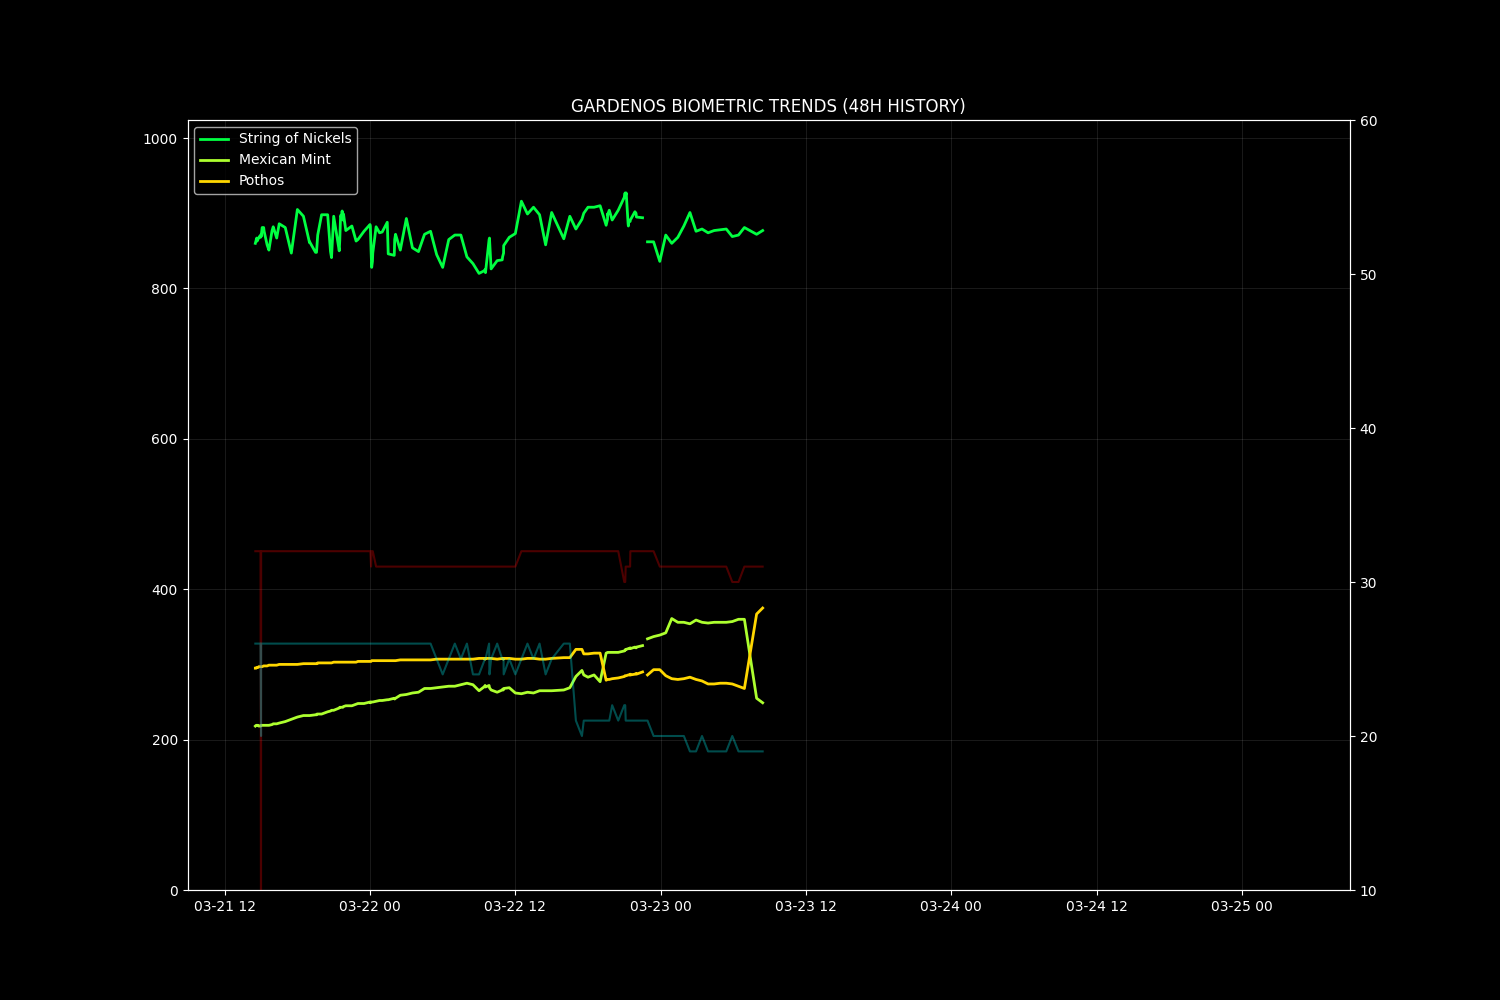
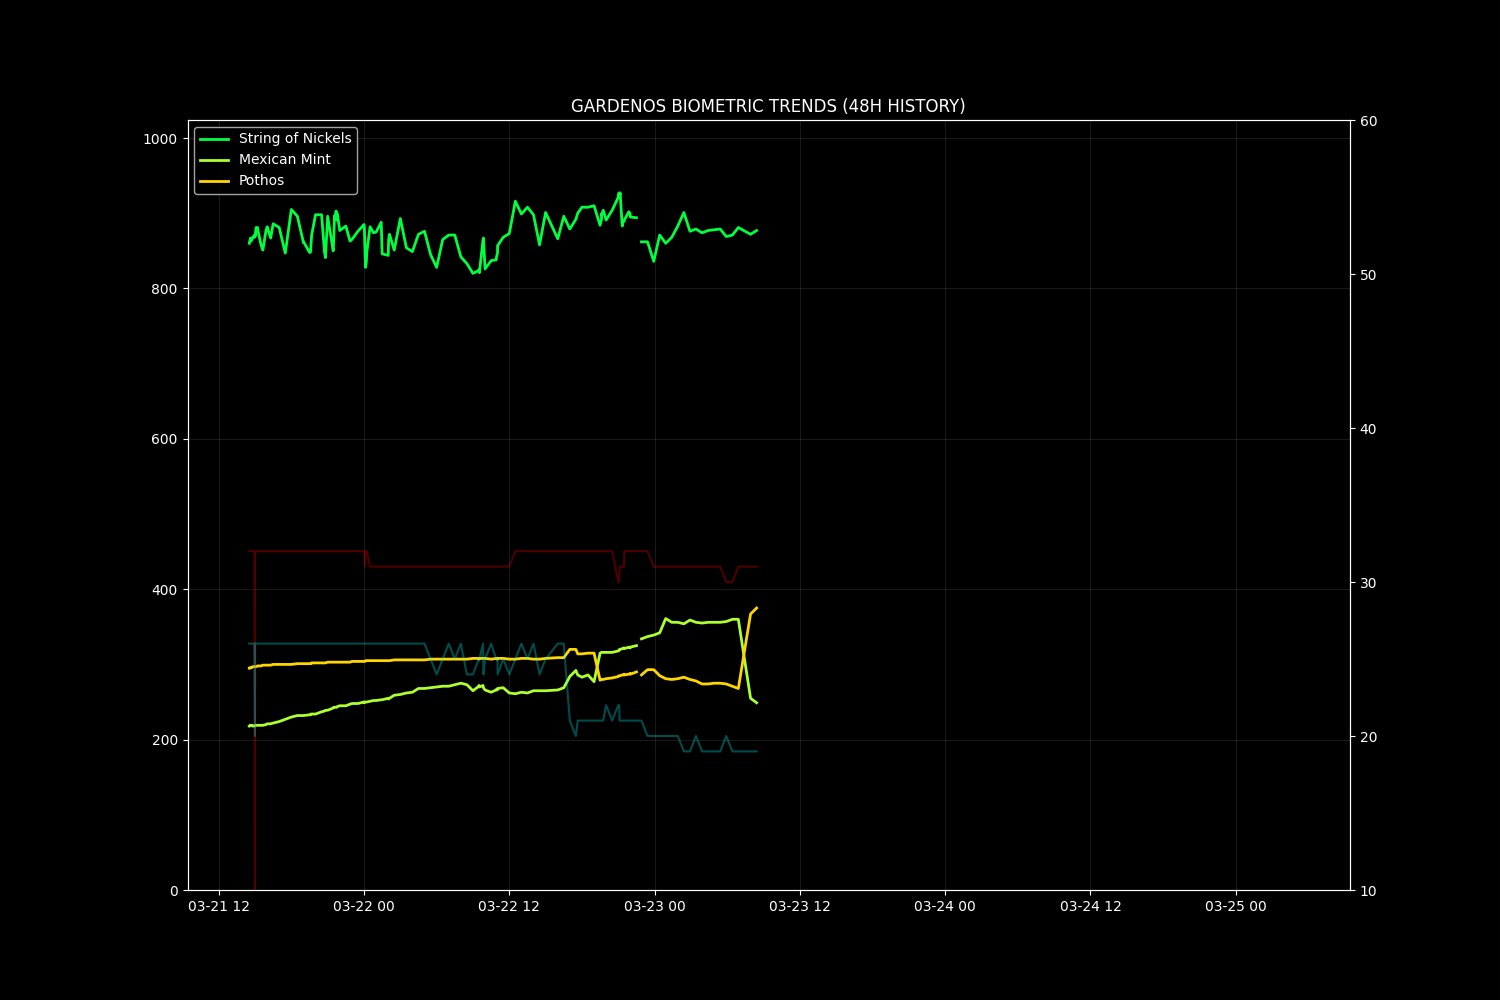
Warden Cycle: 2026-03-23 09:25:58

diff --git a/docs/data/observer_context.md b/docs/data/observer_context.md
@@ -1,10 +1,9 @@
 # 📝 Garden Observer Context
-**Generated:** 2026-03-23 07:58:01
+**Generated:** 2026-03-23 08:58:01
 
 ## 1. 🌡 Recent Telemetry (Last 12 Readings)
 ```csv
 timestamp,temp,hum,light,p1,p2,p3
-2026-03-23 01:55:21,31.0,20.0,892,883.0,356.0,281.0
 2026-03-23 02:25:26,31.0,19.0,897,901.0,354.0,283.0
 2026-03-23 02:55:39,31.0,19.0,889,876.0,359.0,280.0
 2026-03-23 03:25:16,31.0,20.0,890,879.0,356.0,278.0
@@ -16,14 +15,13 @@ timestamp,temp,hum,light,p1,p2,p3
 2026-03-23 06:26:03,30.0,19.0,878,871.0,360.0,271.0
 2026-03-23 06:55:15,31.0,19.0,788,881.0,360.0,268.0
 2026-03-23 07:55:50,31.0,19.0,726,872.0,255.0,367.0
+2026-03-23 08:25:45,31.0,19.0,704,877.0,249.0,375.0
 
 ```
 
 ## 2. 📊 Computed Metrics (Last 12 Calculations)
 ```csv
 timestamp,vpd,p1_pct,p1_slope,p2_pct,p2_slope,p3_pct,p3_slope,p4_pct,p4_slope,p5_pct,p5_slope,p6_pct,p6_slope
-2026-03-23 02:25:26,3.639,7.5,True,86.2,False,74.3,False,83.4,False,,,,
-2026-03-23 02:55:39,3.639,11.4,True,86.7,False,73.5,False,84.0,False,,,,
 2026-03-23 03:25:16,3.594,10.9,True,87.0,False,74.0,False,84.4,False,,,,
 2026-03-23 03:55:15,3.639,11.7,True,87.7,False,74.2,False,85.2,False,,,,
 2026-03-23 04:25:20,3.639,11.2,True,87.7,False,74.0,False,85.2,False,,,,
@@ -34,6 +32,8 @@ timestamp,vpd,p1_pct,p1_slope,p2_pct,p2_slope,p3_pct,p3_slope,p4_pct,p4_slope,p5
 2026-03-23 06:55:15,3.639,10.6,True,88.7,False,73.3,False,86.4,False,,,,
 2026-03-23 06:55:15,3.639,10.6,True,73.3,False,88.7,False,,,,,,
 2026-03-23 07:55:50,3.639,12.0,True,90.8,False,72.2,False,,,,,,
+2026-03-23 08:25:45,3.639,11.2,True,91.8,False,70.8,False,,,,,,
+2026-03-23 08:25:45,3.639,11.2,True,91.8,False,70.8,False,,,,,,
 
 ```
 
